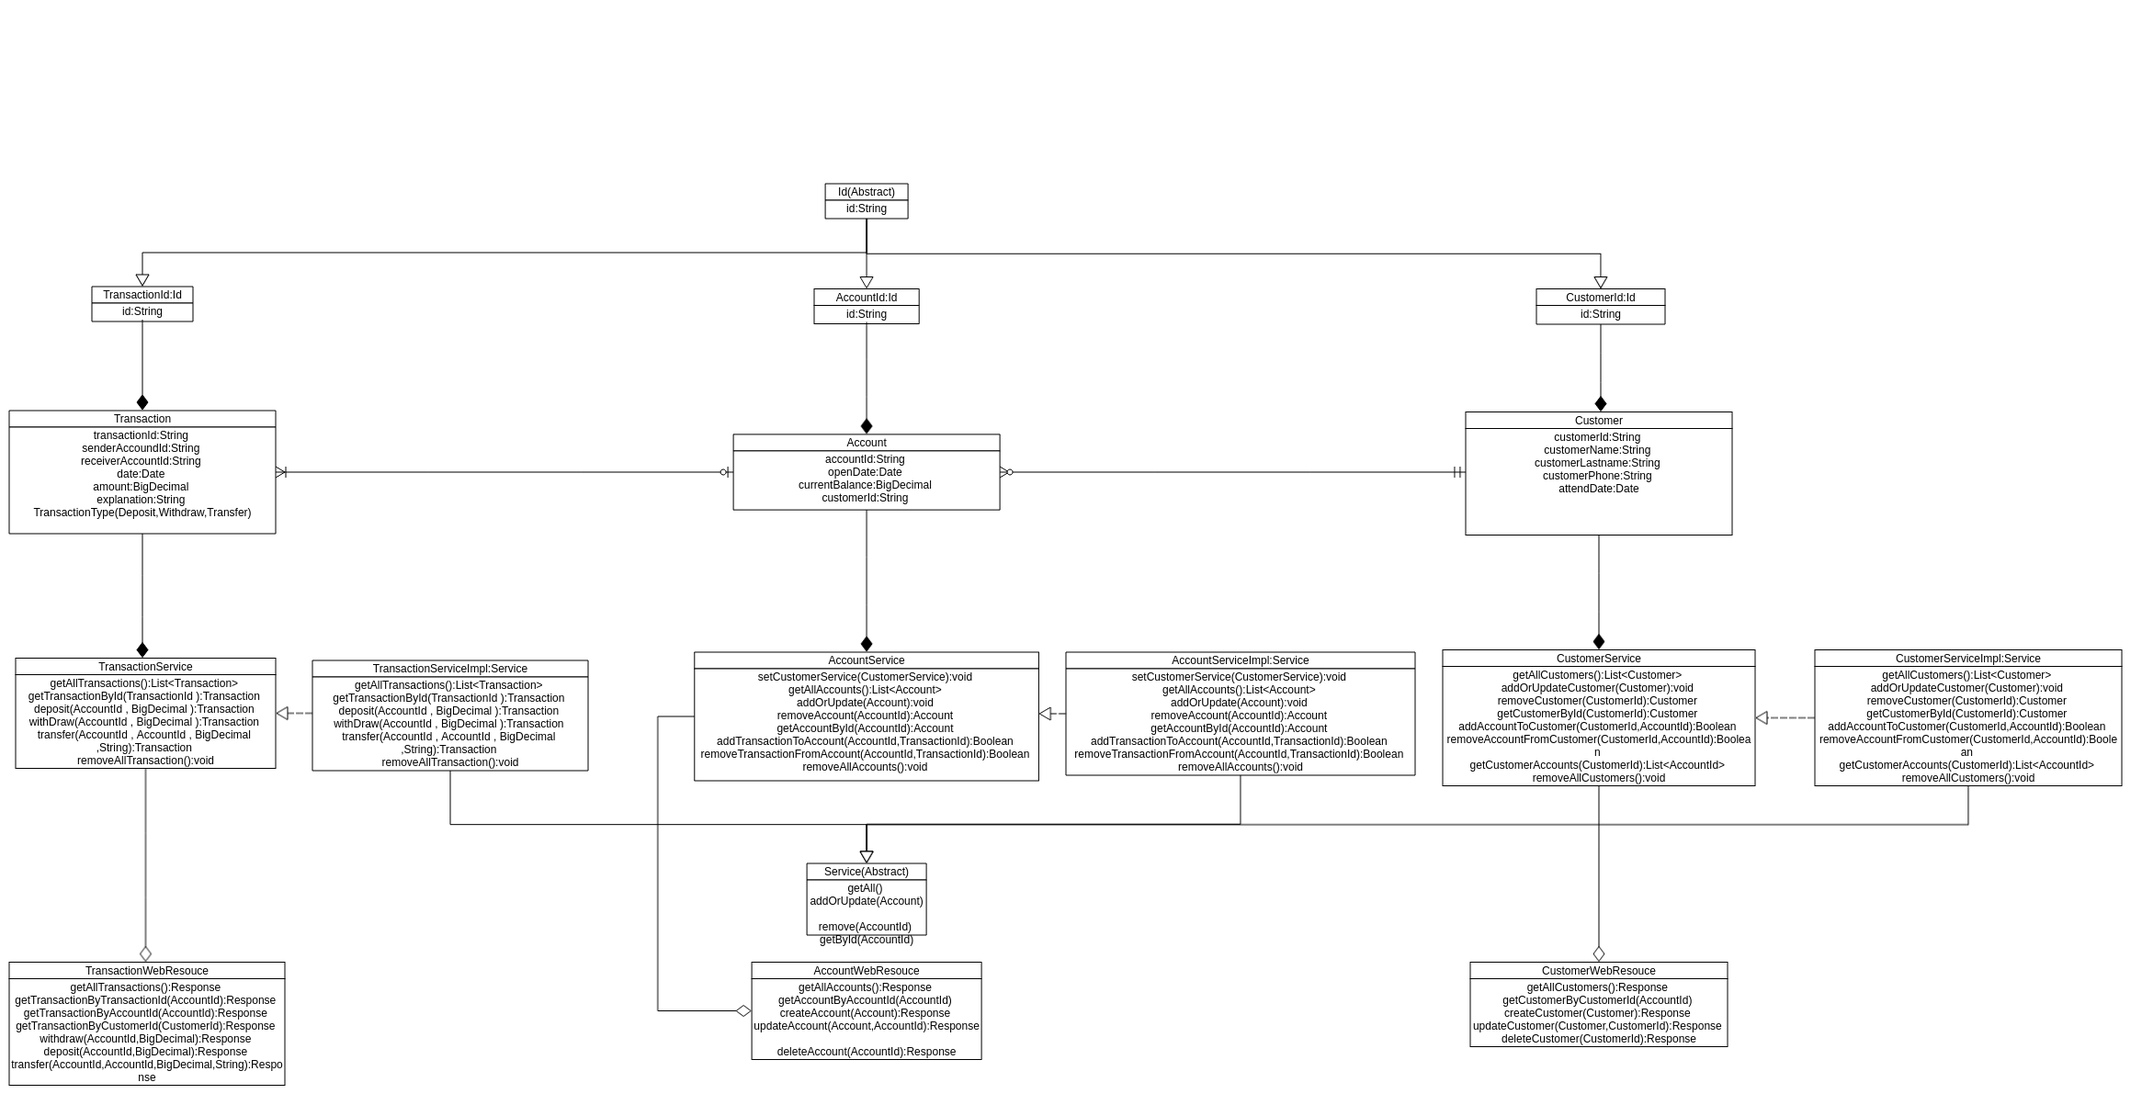
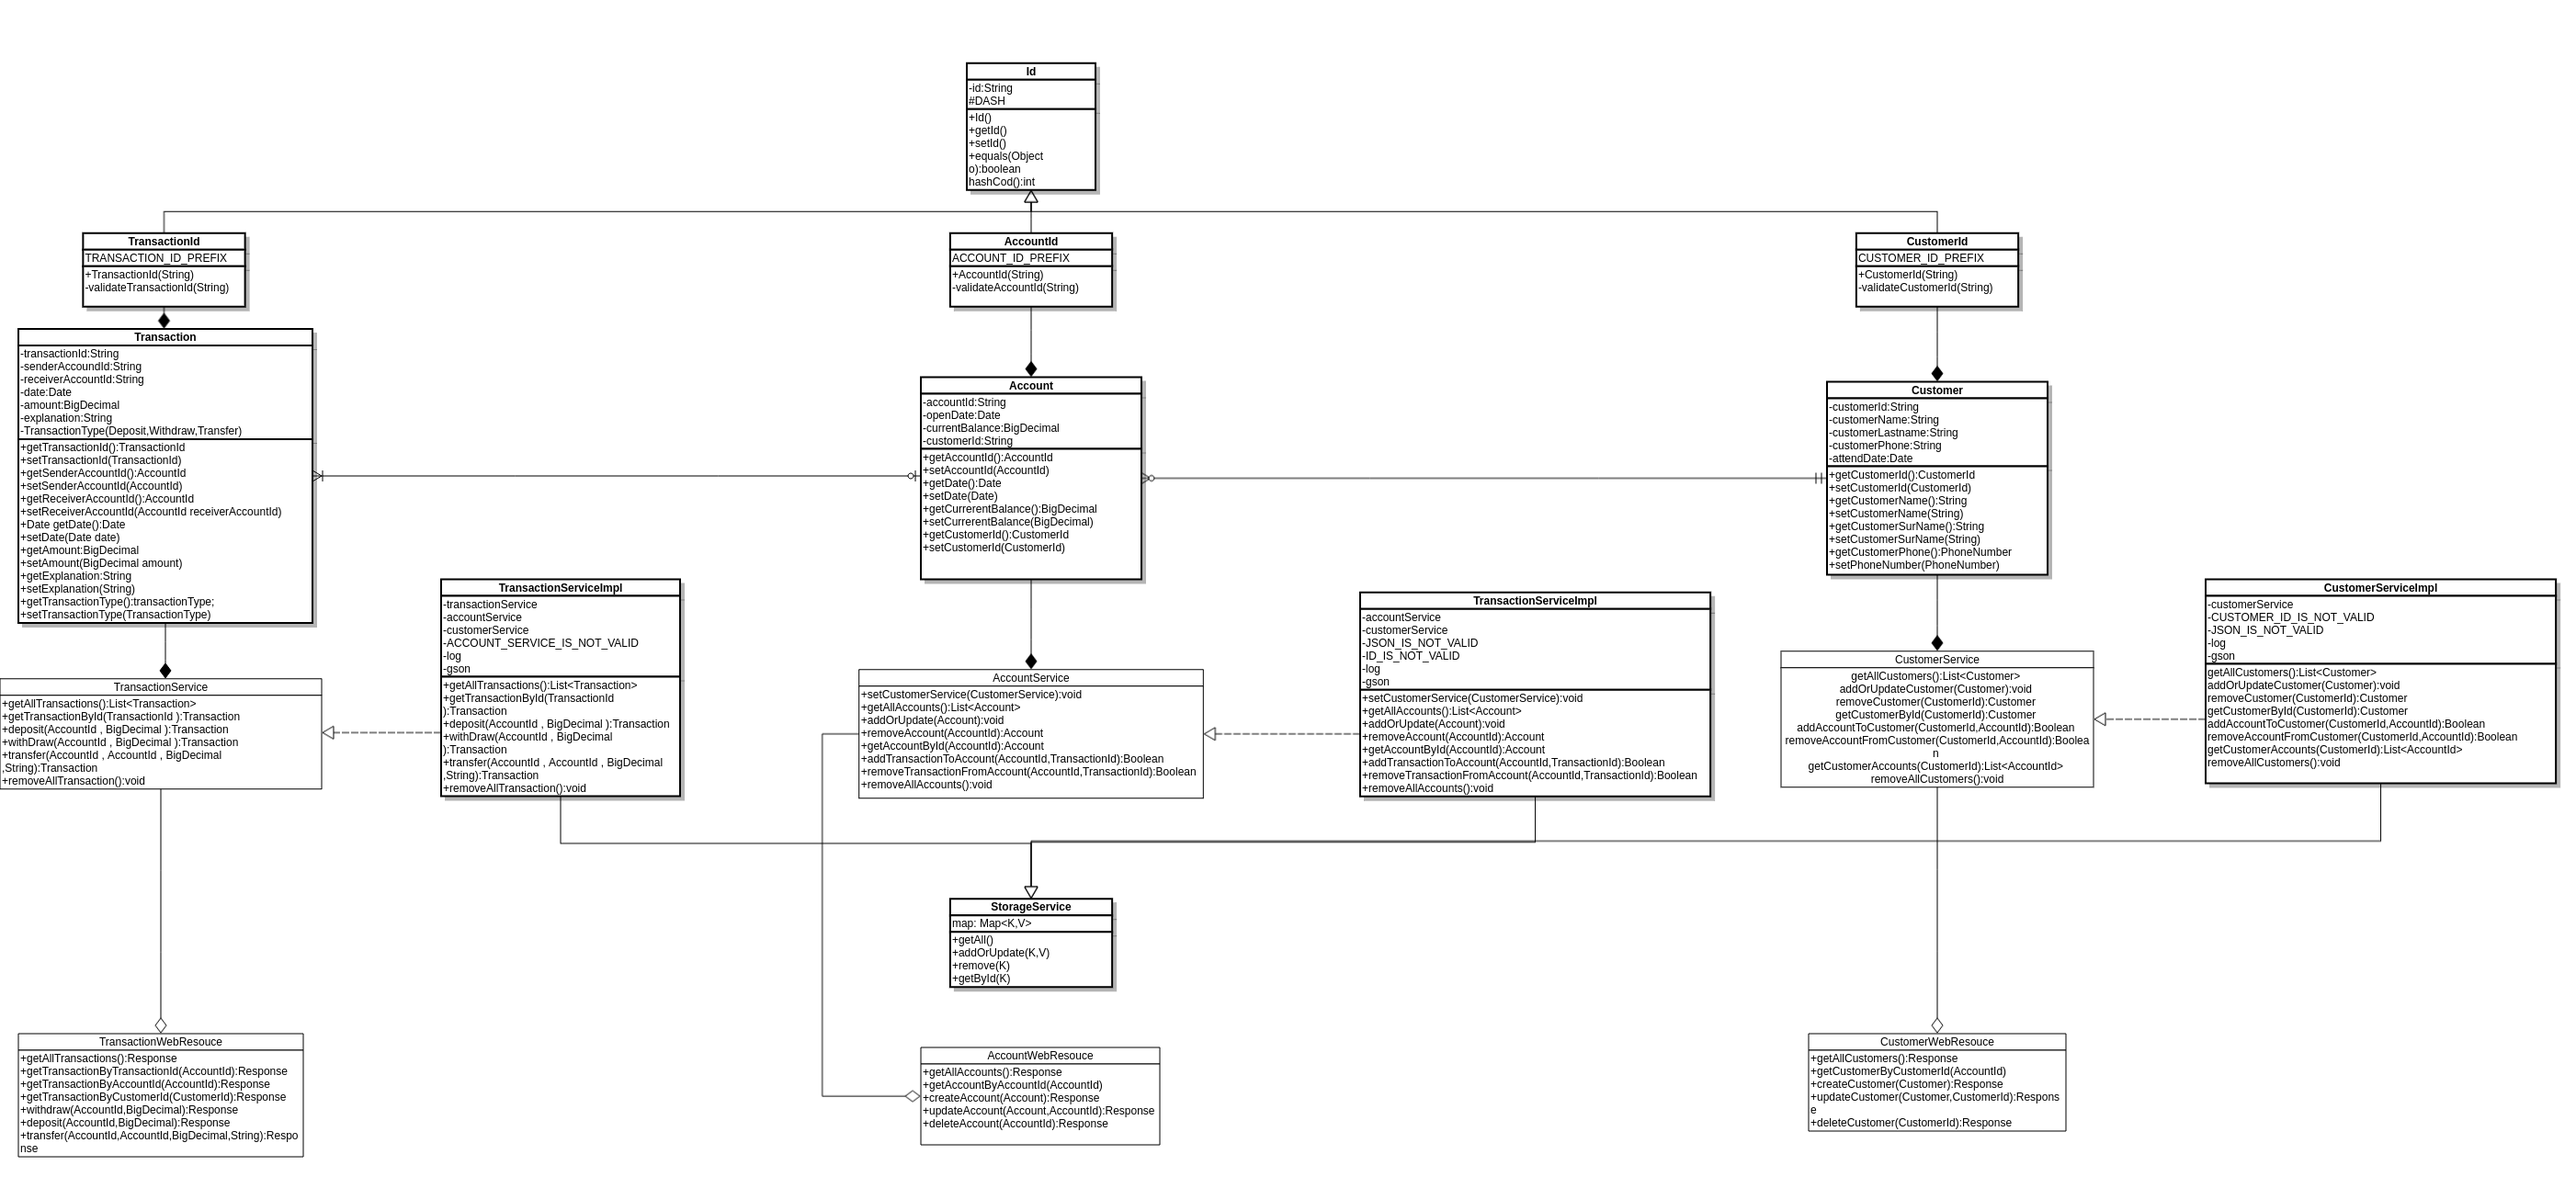
data models' properties have signed as private  #12

diff --git a/api/src/main/java/pl/com/revolut/model/Customer.java b/api/src/main/java/pl/com/revolut/model/Customer.java
@@ -21,9 +21,9 @@ import java.util.Date;
  * customer is a person who can open a accounts and make transactions
  */
 public class Customer {
-    CustomerId customerId;//id of the customer
-    String customerName;//name of the customer
-    String customerSurname;//surname of the customer
-    PhoneNumber customerPhone;//phone number of the customer
-    Date attendDate;//attend date of the customer to the system
+    private CustomerId customerId;//id of the customer
+    private String customerName;//name of the customer
+    private String customerSurname;//surname of the customer
+    private PhoneNumber customerPhone;//phone number of the customer
+    private Date attendDate;//attend date of the customer to the system
 }

diff --git a/api/src/main/java/pl/com/revolut/model/Account.java b/api/src/main/java/pl/com/revolut/model/Account.java
@@ -17,10 +17,10 @@ import java.util.Date;
  * Bank account of the Customer
  */
 public class Account {
-    AccountId accountId; //Id of the account ,starts with ACC-{id}
-    Date openDate;//open date of the account
-    BigDecimal currentBalance; //current balance of the account
+    private AccountId accountId; //Id of the account ,starts with ACC-{id}
+    private Date openDate;//open date of the account
+    private BigDecimal currentBalance; //current balance of the account
     @NonNull
-    CustomerId customerId;//customer id belongs the owner of the account
+    private CustomerId customerId;//customer id belongs the owner of the account
 
 }

diff --git a/api/src/main/java/pl/com/revolut/model/Transaction.java b/api/src/main/java/pl/com/revolut/model/Transaction.java
@@ -23,4 +23,6 @@ public class Transaction {
     BigDecimal amount;//amont of the transaction
     String explanation;//special note of the transaction
     TransactionType transactionType;//type of the transaction, it can be DEPOSIT, WITHDRAW OR TRANSFER
+
+
 }
